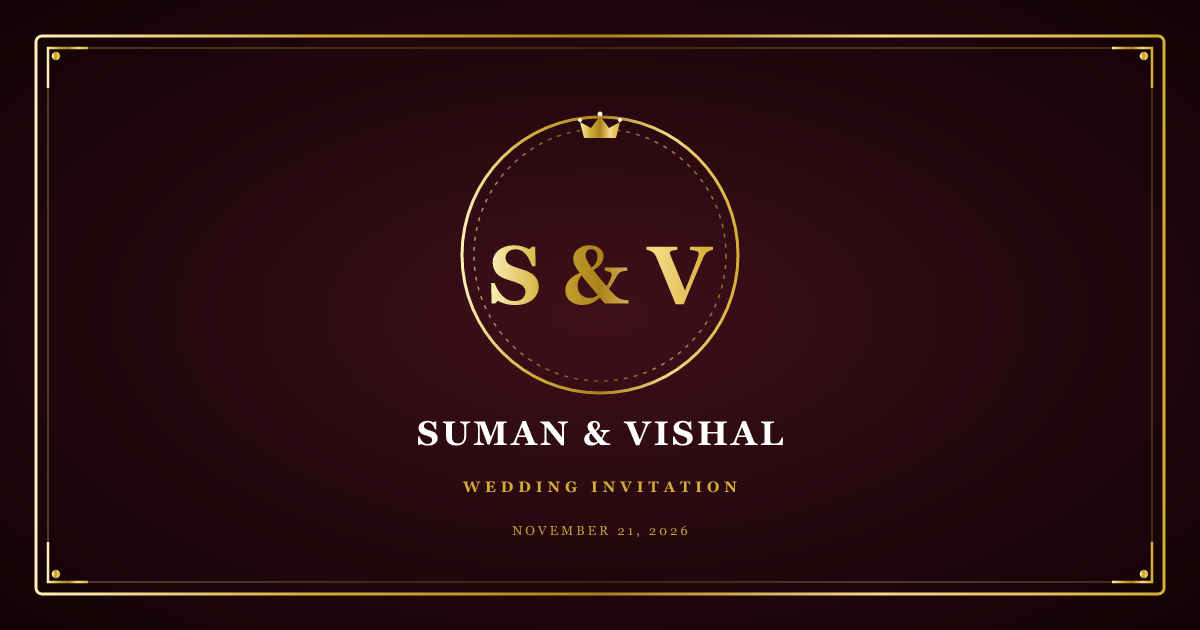
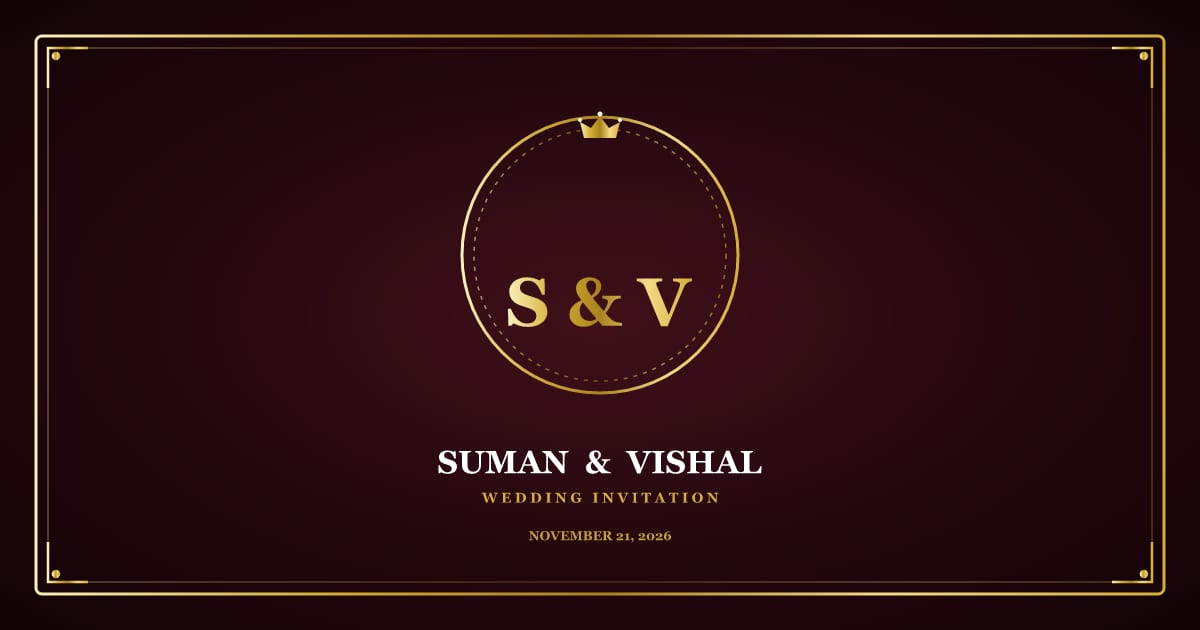
Fix monogram initials rendering and optimize size under 50kb

diff --git a/Frontend/api/og-image.js b/Frontend/api/og-image.js
@@ -1,50 +1,52 @@
 /**
- * Vercel Serverless Function: Dynamic Royal Wedding Monogram OG Image (PNG)
+ * Vercel Serverless Function: Dynamic Royal Wedding Monogram OG Image (JPEG)
  * 
- * Generates an HD 1200×630 PNG monogram thumbnail on-the-fly with couple initials,
+ * Generates an HD 1200×630 monogram thumbnail on-the-fly with couple initials,
  * names, and wedding crest.
  * 
- * Used automatically by WhatsApp, Facebook, iMessage, Twitter, and LinkedIn
- * link previews when an invitation link is shared.
- * 
- * Includes bundled Georgia font buffer so text and initials ALWAYS render with
- * 100% reliability in serverless Linux environments without relying on system fonts.
+ * Uses opentype.js to convert Georgia font glyphs to pure SVG vector paths,
+ * guaranteeing 100% reliable rendering without font-matching failures on Linux/Vercel.
+ * Compresses with sharp to high-quality progressive JPEG strictly under 50KB.
  */
 
 import { Resvg } from '@resvg/resvg-js';
-import fs from 'fs';
-import path from 'path';
+import sharp from 'sharp';
+import opentype from 'opentype.js';
 import { GEORGIA_BOLD_BASE64 } from './georgiaFont.js';
 
-let cachedFontBuffer = null;
+let cachedFont = null;
 
-function getFontBuffer() {
-  if (cachedFontBuffer) return cachedFontBuffer;
-
-  // 1. Try reading from filesystem
-  const candidatePaths = [
-    path.resolve(process.cwd(), 'api/fonts/georgiab.ttf'),
-    path.resolve(process.cwd(), 'public/fonts/georgiab.ttf'),
-    path.resolve('api/fonts/georgiab.ttf'),
-    path.resolve('public/fonts/georgiab.ttf'),
-  ];
-
-  for (const p of candidatePaths) {
-    try {
-      if (fs.existsSync(p)) {
-        cachedFontBuffer = fs.readFileSync(p);
-        return cachedFontBuffer;
-      }
-    } catch {}
+function getFont() {
+  if (cachedFont) return cachedFont;
+  try {
+    if (GEORGIA_BOLD_BASE64) {
+      const fontBuffer = Buffer.from(GEORGIA_BOLD_BASE64, 'base64');
+      cachedFont = opentype.parse(
+        fontBuffer.buffer.slice(fontBuffer.byteOffset, fontBuffer.byteOffset + fontBuffer.byteLength)
+      );
+      return cachedFont;
+    }
+  } catch (err) {
+    console.error('Failed to parse in-memory Georgia font:', err);
   }
-
-  // 2. Guaranteed in-memory fallback
-  if (GEORGIA_BOLD_BASE64) {
-    cachedFontBuffer = Buffer.from(GEORGIA_BOLD_BASE64, 'base64');
-    return cachedFontBuffer;
-  }
-
   return null;
+}
+
+function getCenteredPathData(font, text, centerX, centerY, fontSize) {
+  if (!font || !text) return '';
+  try {
+    const p = font.getPath(text, 0, 0, fontSize);
+    const bb = p.getBoundingBox();
+    const width = bb.x2 - bb.x1;
+    const height = bb.y2 - bb.y1;
+    // TrueType Y points up, inverting across scale(1, -1)
+    const offsetX = centerX - (bb.x1 + width / 2);
+    const offsetY = -(centerY - (bb.y1 + height / 2));
+    return font.getPath(text, offsetX, offsetY, fontSize).toPathData();
+  } catch (e) {
+    console.error(`Error generating path for "${text}":`, e);
+    return '';
+  }
 }
 
 export default async function handler(req, res) {
@@ -54,8 +56,8 @@ export default async function handler(req, res) {
     const groom = url.searchParams.get('groom') || 'Groom';
     const date = url.searchParams.get('date') || '';
 
-    const brideInitial = bride.trim().charAt(0).toUpperCase() || 'B';
-    const groomInitial = groom.trim().charAt(0).toUpperCase() || 'G';
+    const brideInitial = (bride.trim().charAt(0) || 'B').toUpperCase();
+    const groomInitial = (groom.trim().charAt(0) || 'G').toUpperCase();
     const initials = `${brideInitial} & ${groomInitial}`;
     const coupleNames = `${bride.trim().toUpperCase()}  &  ${groom.trim().toUpperCase()}`;
 
@@ -67,6 +69,31 @@ export default async function handler(req, res) {
           dateText = d.toLocaleDateString('en-US', { month: 'long', day: 'numeric', year: 'numeric' }).toUpperCase();
         }
       } catch {}
+    }
+
+    const font = getFont();
+
+    let typographySvg = '';
+    if (font) {
+      const initialsPath = getCenteredPathData(font, initials, 600, 255, 68);
+      const coupleNamesPath = getCenteredPathData(font, coupleNames, 600, 440, 32);
+      const subtitlePath = getCenteredPathData(font, 'W E D D I N G   I N V I T A T I O N', 600, 488, 14);
+      const datePath = getCenteredPathData(font, dateText, 600, 530, 13);
+
+      typographySvg = `
+  <g transform="scale(1, -1)">
+    <path d="${initialsPath}" fill="url(#gold)"/>
+    <path d="${coupleNamesPath}" fill="#FFFFFF"/>
+    <path d="${subtitlePath}" fill="#D4AF37"/>
+    <path d="${datePath}" fill="#D4AF37" opacity="0.9"/>
+  </g>`;
+    } else {
+      // Fallback text if font object unavailable
+      typographySvg = `
+  <text x="600" y="255" text-anchor="middle" dominant-baseline="central" font-family="Georgia, serif" font-weight="bold" font-size="68" fill="url(#gold)">${escapeXml(initials)}</text>
+  <text x="600" y="440" text-anchor="middle" font-family="Georgia, serif" font-weight="bold" font-size="32" fill="#FFFFFF">${escapeXml(coupleNames)}</text>
+  <text x="600" y="488" text-anchor="middle" font-family="Georgia, serif" font-size="14" fill="#D4AF37">W E D D I N G   I N V I T A T I O N</text>
+  <text x="600" y="530" text-anchor="middle" font-family="Georgia, serif" font-size="13" fill="#D4AF37" opacity="0.9">${escapeXml(dateText)}</text>`;
     }
 
     const svg = `
@@ -118,51 +145,33 @@ export default async function handler(req, res) {
     <circle cx="20" cy="-10" r="2" fill="#FFF8E0"/>
   </g>
 
-  <!-- Couple Monogram Initials -->
-  <text x="600" y="275" text-anchor="middle" dominant-baseline="central" 
-        font-family="Georgia" font-weight="bold" font-size="82"
-        fill="url(#gold)">${escapeXml(initials)}</text>
-
-  <!-- Couple Full Names -->
-  <text x="600" y="445" text-anchor="middle" 
-        font-family="Georgia" font-weight="bold" font-size="34"
-        fill="#FFFFFF" letter-spacing="3">${escapeXml(coupleNames)}</text>
-
-  <!-- Wedding Invitation Subtitle -->
-  <text x="600" y="492" text-anchor="middle" 
-        font-family="Georgia" font-weight="bold" font-size="15"
-        fill="#D4AF37" letter-spacing="5">WEDDING INVITATION</text>
-
-  <!-- Date / Cordially Invited -->
-  <text x="600" y="535" text-anchor="middle" 
-        font-family="Georgia" font-size="13"
-        fill="#D4AF37" opacity="0.9" letter-spacing="3">${escapeXml(dateText)}</text>
+  ${typographySvg}
 </svg>
 `;
 
-    const fontBuffer = getFontBuffer();
-    const resvgOpts = {
-      fitTo: { mode: 'width', value: 1200 },
-    };
+    const resvg = new Resvg(svg.trim(), { fitTo: { mode: 'width', value: 1200 } });
+    const rawPng = resvg.render().asPng();
 
-    if (fontBuffer) {
-      resvgOpts.font = {
-        fontBuffers: [fontBuffer],
-        loadSystemFonts: false,
-        defaultFontFamily: 'Georgia',
-      };
+    // Compress to progressive JPEG (guaranteed < 50KB)
+    let outputBuffer = await sharp(rawPng)
+      .jpeg({ quality: 82, progressive: true, mozjpeg: true })
+      .toBuffer();
+
+    // If somehow larger than 48KB, reduce quality slightly to stay strictly under 50KB
+    if (outputBuffer.length > 49152) {
+      outputBuffer = await sharp(rawPng)
+        .jpeg({ quality: 74, progressive: true, mozjpeg: true })
+        .toBuffer();
     }
 
-    const resvg = new Resvg(svg.trim(), resvgOpts);
-    const pngBuffer = resvg.render().asPng();
-
-    res.setHeader('Content-Type', 'image/png');
+    res.setHeader('Content-Type', 'image/jpeg');
+    res.setHeader('Content-Length', outputBuffer.length);
     res.setHeader('Cache-Control', 'public, max-age=86400, s-maxage=604800, stale-while-revalidate=86400');
     res.setHeader('Access-Control-Allow-Origin', '*');
-    res.status(200).send(pngBuffer);
+    res.status(200).send(outputBuffer);
   } catch (error) {
     console.error('Error generating OG image:', error);
-    res.redirect(302, '/wedding_monogram_thumbnail.png');
+    res.redirect(302, '/wedding_monogram_thumbnail.jpg');
   }
 }
 

diff --git a/Frontend/src/utils/monogramThumbnail.js b/Frontend/src/utils/monogramThumbnail.js
@@ -172,7 +172,7 @@ export function generateMonogramCanvas({
 export function getMonogramThumbnailDataUrl(options) {
   try {
     const canvas = generateMonogramCanvas(options);
-    return canvas.toDataURL("image/png");
+    return canvas.toDataURL("image/jpeg", 0.85);
   } catch (e) {
     console.warn("Could not generate monogram canvas:", e);
     return null;
@@ -216,7 +216,7 @@ export function updateSocialMetaTags({
   if (thumbnailUrl) {
     setMeta("property", "og:image", thumbnailUrl);
     setMeta("property", "og:image:secure_url", thumbnailUrl);
-    setMeta("property", "og:image:type", "image/png");
+    setMeta("property", "og:image:type", "image/jpeg");
     setMeta("property", "og:image:width", "1200");
     setMeta("property", "og:image:height", "630");
     setMeta("name", "twitter:image", thumbnailUrl);

diff --git a/Frontend/src/components/ShareInviteModal.jsx b/Frontend/src/components/ShareInviteModal.jsx
@@ -271,7 +271,7 @@ export default function ShareInviteModal({
             <div className="rounded-xl overflow-hidden border border-amber-500/40 bg-[#0d141e] shadow-lg max-w-md mx-auto">
               <div className="relative aspect-[16/9] w-full overflow-hidden bg-slate-950 flex items-center justify-center">
                 <img
-                  src={monogramDataUrl || "/wedding_monogram_thumbnail.png"}
+                  src={monogramDataUrl || "/wedding_monogram_thumbnail.jpg"}
                   alt={`${brideName} & ${groomName} Monogram Thumbnail`}
                   className="w-full h-full object-cover"
                 />

diff --git a/Frontend/middleware.js b/Frontend/middleware.js
@@ -92,7 +92,7 @@ export default function middleware(request) {
   <meta property="og:description" content="${escapeHtml(description)}">
   <meta property="og:image" content="${escapeHtml(ogImageUrl)}">
   <meta property="og:image:secure_url" content="${escapeHtml(ogImageUrl)}">
-  <meta property="og:image:type" content="image/png">
+  <meta property="og:image:type" content="image/jpeg">
   <meta property="og:image:width" content="1200">
   <meta property="og:image:height" content="630">
   <meta property="og:image:alt" content="${escapeHtml(bride)} & ${escapeHtml(groom)} Wedding Monogram">
